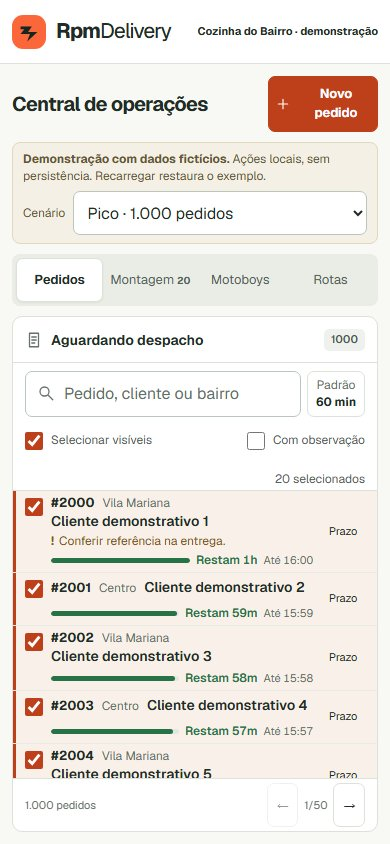
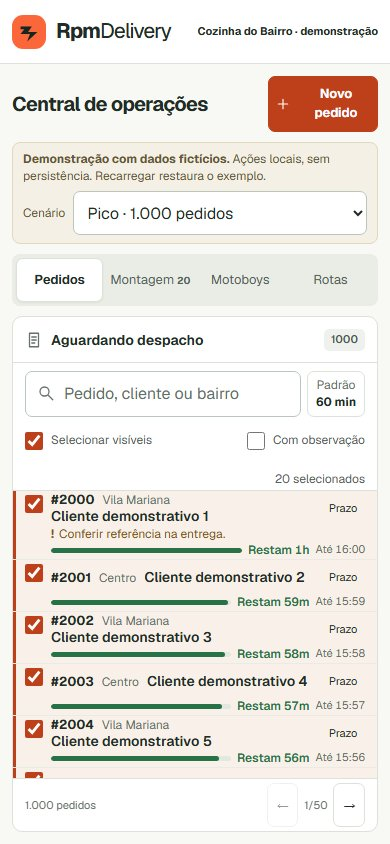
fix: preserve mobile order density with deadline bars

Changed region(s): [[0.0615, 0.5853, 0.9231, 0.9242]]

diff --git a/features/operations/operations-deadlines.css b/features/operations/operations-deadlines.css
@@ -61,6 +61,11 @@
 .ops-deadline-fill { display: block; height: 100%; background: var(--deadline-color); border-radius: inherit; }
 @media (max-width: 600px) {
   .ops-deadline-other-day strong { flex-basis: 100%; order: -1; }
+  .ops-order { padding-block: 1px; row-gap: 0; }
+  .ops-order .ops-order-identity { line-height: 1.25; }
+  .operations .ops-order-edit-promise { grid-row: 1; margin-block: -5px; align-self: start; }
+  .ops-order .ops-order-note,
+  .ops-order-deadline { grid-column: 2 / -1; }
 }
 .operations .ops-deadline-button {
   min-height: 44px;

diff --git a/docs/reviews/delivery-deadlines-visual-critic.md b/docs/reviews/delivery-deadlines-visual-critic.md
@@ -1,0 +1,76 @@
+# Revisão independente — prazos e retirada
+
+Relatório original do Critic nativo, salvo pelo Builder sem mudar suas conclusões. Revisou o candidato `27e9b0876bd0811cdb086f5b02dc88cd76badd4c`, antes do refinamento mobile posterior. Todas as imagens citadas nesta seção pertencem a [esse commit imutável](https://github.com/henriqueskm/rpmdelivery/tree/27e9b0876bd0811cdb086f5b02dc88cd76badd4c/docs/screenshots/deadlines-pickup), não às capturas atualizadas depois.
+
+Descoberta confirmada pelo registro do runtime: coordenador `01a13098-cc1d-7571-8a43-1599a5267012`, filho `01a13099-8d50-73c0-8ea0-ae7dd3080453`, `agent_role=rpmdelivery_visual_critic`, `agent_path=/root/visual_review`, sandbox read-only e approval never. O agente não escreveu arquivos nem corrigiu achados. O Builder fez QA interativo em outra sessão; o Critic declarou fallback para imagens.
+
+Revisão independente concluída com **um achado P2 de densidade mobile**. Não observei P0/P1 nas capturas analisadas. A inspeção interativa ficou indisponível; esta conclusão não aprova a PR.
+
+**Identidade e contexto.** Agente `/root/visual_review`, invocado com o tipo nativo `rpmdelivery_visual_critic`. Recebi as instruções desse papel e li `.codex/agents/rpmdelivery-visual-critic.toml`, que declara o mesmo nome, `sandbox_mode = "read-only"` e `approval_policy = "never"`. Posso comprovar o papel recebido e a configuração lida; não inspecionei o mecanismo interno de descoberta do runtime.
+
+Conferi diretamente `git rev-parse HEAD`: `27e9b0876bd0811cdb086f5b02dc88cd76badd4c`. `git status --short` não retornou alterações. Branch informada pelo coordenador: `codex/delivery-deadlines-pickup`; PR ainda não aberta. Escopo: prazos prometidos e liberação conjunta de retirada no protótipo operacional.
+
+Li `AGENTS.md`, `CONVENTIONS.md`, `docs/development-workflow.md` e as skills emil-design-eng, mobile-native, break-ui/CATALOG e rpmdelivery-qa. Apliquei somente suas etapas de leitura e inspeção. Não há frame Figma aprovado disponível; considerei a identidade atual com o raio.
+
+**Evidência e cobertura.** Tentei abrir `http://127.0.0.1:3007/preview/operacao?scenario=demo` no navegador integrado. A ferramenta retornou **“Browser is not available: iab”**. Não tentei Chrome, navegador externo ou contorno.
+
+Analisei por `view_image` as capturas existentes em `docs/screenshots/deadlines-pickup`, sem criar arquivos:
+
+- Antes/depois de pedidos e montagem em 320×844, 375×844 e 390×844.
+- Antes/depois desktop em 1280×800 e 1440×900.
+- Motoboy aguardando em desktop e nas três larguras mobile; pronto para retirada nas três larguras mobile; ON_ROUTE em 390px.
+- Textos longos em pedidos em 1280/320/375/390px e motoboy em 320/390px.
+- Conferência, vazio, um pedido, novo pedido e prazo padrão em 390px; editor de prazo em 320/390px.
+
+A identificação das capturas como antes de `origin/main`/PR #10 e depois do HEAD candidato, DPR 1 e relógio congelado em 12/10/2026 às 15:00, foi **fornecida pelo coordenador**. Conferi o HEAD do checkout; não há metadado visual nas imagens que prove isoladamente seu commit de origem.
+
+`measurements.json` foi lido como **medição DOM fornecida**, não como medição independente. O cenário `demo` foi lido nas fixtures, mas não teve resultado renderizado inspecionado: as capturas de alto volume mostram `busy`.
+
+**[P2] A coluna da ação “Prazo” reduz a área de leitura e a densidade em mobile.**
+
+Em `after-375-orders.jpg` e `after-390-orders.jpg`, a lista mostra quatro pedidos completos antes do rodapé, enquanto as respectivas imagens `before-*` mostram cinco, com o mesmo cenário de 1.000 pedidos, 20 selecionados e posição inicial. A medição fornecida confirma **5 → 4 pedidos completos em uma área de 287,42px**, perda de 20% na quantidade simultaneamente visível. O acréscimo do prazo é útil, mas o custo aumenta a rolagem durante seleção e conferência repetitivas.
+
+O código confirma que a ação reserva uma coluna de 44px atravessando as três linhas do pedido. Observações e barra ficam restritas à coluna central mesmo abaixo da identidade. Em `after-320-worst-orders.jpg`, isso é particularmente visível na observação de alergia e instruções de entrega: há espaço ao lado da nota ocupado pela coluna da ação.
+
+- **Evidência:** `before-375-orders.jpg` / `after-375-orders.jpg`, `before-390-orders.jpg` / `after-390-orders.jpg`, `after-320-worst-orders.jpg`; `measurements.json`, entradas `orders`.
+- **Reprodução para o Builder:** abrir `?scenario=busy`, usar 375×844 ou 390×844, selecionar os 20 pedidos visíveis e manter a lista no início. Comparar com a referência anterior nas mesmas condições. Para observar o estreitamento da nota, usar `?scenario=worst` em 320×844.
+- **Responsável identificado:** `features/operations/operations-deadlines.css:16` define as colunas; linha 30 faz a ação atravessar três linhas; linhas 33 e 34 restringem observação e prazo à coluna 2.
+- **Recomendação:** manter “Prazo” com alvo de pelo menos 44px, mas reposicionar sua reserva junto da identidade e permitir que as linhas seguintes aproveitem a largura disponível. Recomparar as contagens sem reduzir fontes, truncar alertas ou ocultar observações.
+- **Benefício esperado:** menos quebras de linha e maior área útil para informações essenciais. A recuperação exata de cinco linhas exige validação renderizada após o ajuste; não está comprovada antecipadamente.
+
+| Antes | Depois recomendado | Benefício |
+| --- | --- | --- |
+| Ação “Prazo” reserva 44px ao longo da identidade, observação e barra | Reserva da ação concentrada junto da identidade; linhas seguintes aproveitam a largura disponível | Reduz quebras e rolagem, preservando alvo de toque e conteúdo integral |
+
+**Aspectos que resistiram à inspeção das imagens.**
+
+Os prazos aparecem abaixo das informações dos pedidos. A barra, o texto de tempo e o limite ficam associados visualmente; o estado não depende somente da cor. As capturas mostram verde para tempo folgado, laranja com “Próximo · 8m” e vermelho com “Vencido”. O vencimento do dia anterior traz `Até 11/10, 18:36`; no mobile, o atraso ocupa uma linha anterior, sem esconder o limite.
+
+Nas capturas de textos longos, nome, bairro, referência extensa, complemento e instruções de alergia permanecem legíveis com quebra de linha. A visão do motoboy em 390px mostra a nota extensa integralmente e o prazo correspondente. Não observei ações sobrepostas nem conteúdo escapando horizontalmente nas regiões capturadas.
+
+Em desktop, a comparação e a medição fornecida mantêm seis pedidos completos em 1280×800 e oito em 1440×900. A montagem mantém ações de atribuição acessíveis; a conferência em 390px amplia a área de leitura para a composição de 20 paradas, embora apenas as primeiras estejam visíveis na captura.
+
+As imagens do motoboy distinguem “Aguardando liberação” de “Pronto para retirada”, mantendo “Em preparação” nos dois estados. O botão de início aparece desabilitado no primeiro e ativo no segundo. Em ON_ROUTE, aparece a mensagem de composição e sequência bloqueadas. O aviso de simulação, ausência de autenticação real, tracking e notificações é visível.
+
+Vazio e um pedido têm apresentação coerente. Os editores separam horário original e prazo prometido; o prazo padrão explica que vale somente para novos pedidos.
+
+**Comportamentos confirmados apenas por leitura do código.**
+
+O reducer em memória mantém PREPARING/reserva após atribuição, libera o conjunto completo sem iniciar a rota e exige o motoboy atribuído para o início. Alteração do conjunto invalida a liberação; reordenação do mesmo conjunto a preserva. Edição de composição exige PREPARING. Retorno confirmado recoloca o motoboy no final da fila.
+
+`deadlines.ts` calcula o limite a partir do horário original mais o prazo, usa verde acima de 10 minutos, laranja entre mais de 5 e 10 minutos e vermelho em até 5 minutos ou vencido. O relógio é compartilhado por `useOperationsClock`. Não há reordenação automática por urgência na leitura realizada.
+
+Esses pontos **não equivalem a fluxos executados** nem comprovam autorização ou segurança de backend futuro.
+
+**Limitações e cobertura pendente.**
+
+Não executei interação, teclado, Escape, retorno de foco, seleção/filtros, paginação, validação de formulário ou rolagem até a vigésima parada. Não capturei console, network ou erros de runtime. Não houve teste de atualização temporal ou da transição visual em exatamente 10/5 minutos. Loading, erros e recuperação não foram observados renderizados.
+
+Os alvos “Prazo” e prazo padrão têm mínimo de 44px declarado no CSS; isso não constitui medição independente de todos os controles. A inspeção de contraste foi visual, sem cálculo instrumental ou declaração de conformidade WCAG.
+
+Não foram fornecidos resultados de verify, unitários ou E2E associados ao HEAD; permanecem não verificados. Não executei testes, build, instalação ou qualquer comando de escrita. Não acessei dados reais, Supabase ou produção.
+
+Sem aparelho físico, teclado virtual, safe areas, gestos, zoom nativo e comportamento com barras do navegador permanecem não testados. Não alterei viewport de navegador disponível, portanto não houve override a restaurar.
+
+Devolvo ao Builder como prioridade o **P2 de distribuição da coluna “Prazo” no mobile** e a validação interativa pendente do fluxo de liberação/início, edição e retorno. Nenhuma correção, aprovação, publicação ou merge foi realizado.
+

diff --git a/docs/delivery-deadlines-qa.md b/docs/delivery-deadlines-qa.md
@@ -10,11 +10,11 @@ Capturas em [screenshots/deadlines-pickup](screenshots/deadlines-pickup), medida
 | --- | --- | --- | --- |
 | 1280×800 | 6 → 6 | 3 → 4 | 6 → 6 |
 | 1440×900 | 8 → 8 | 7 → 7 | 8 → 8 |
-| 320×844 | 3 → 3 | 2 → 2 | 4 → 4 |
-| 375×844 | 5 → 4 | 3 → 3 | 5 → 6 |
-| 390×844 | 5 → 4 | 3 → 3 | 6 → 6 |
+| 320×844 | 3 → 4 | 2 → 2 | 4 → 4 |
+| 375×844 | 5 → 5 | 3 → 3 | 5 → 6 |
+| 390×844 | 5 → 5 | 3 → 3 | 6 → 6 |
 
-A barra inferior e o horário na mesma linha atendem à escolha do usuário. No pico mobile 375/390, a linha adicional de prazo custa um pedido completo visível; nomes, bairros, observações integrais e alvos de 44px foram preservados. Os painéis mantêm altura e rolagem próprias. A conferência ampliada mantém o seletor e a atribuição disponíveis.
+A barra inferior e o horário na mesma linha atendem à escolha do usuário. Após o P2 do Critic, a ação Prazo foi concentrada junto da identificação no mobile; observações e barra passaram a ocupar a largura restante inteira. Espaçamentos verticais foram compactados, sem reduzir fontes ou alvos. Recuperamos cinco pedidos completos em 375/390 e ampliamos de três para quatro em 320; nomes, bairros, observações integrais e alvos de 44px foram preservados. Os painéis mantêm altura e rolagem próprias. A conferência ampliada mantém o seletor e a atribuição disponíveis.
 
 A visão do motoboy com vinte paradas mantém estado, prazo urgente e ação de início fora da lista rolável: área de lista de 352px em 320/375 e 369px em 390, ação inteira visível, sem overflow horizontal. Datas de outro dia permanecem explícitas; no mobile o texto de atraso pode ocupar a linha anterior para conservar barra e horário juntos.
 
@@ -33,7 +33,7 @@ Console integrado sem erros/warnings; CDP sem exceções, falhas de carregamento
 
 Instalação limpa com npm ci; verify (lint, TypeScript, build), 18 unitários, instalação SQL e SQL/PGlite locais aprovados. Audit de produção: zero vulnerabilidades. Audit completo: cinco alertas altos dev preexistentes, documentados no contrato; sem mudança de dependências ou gate.
 
-Foi observada uma falha intermitente no teste preexistente de debounce do onboarding durante uma execução local (`Rua` disparada antes da segunda entrada). O arquivo de onboarding e retries globais não foram alterados. A repetição completa passou com 62 testes; o resultado final e o CI constam na PR. Falhas de densidade durante desenvolvimento foram corrigidas no CSS sem reduzir os critérios do teste.
+Foram observadas falhas intermitentes nos testes preexistentes de debounce do onboarding em execuções locais concorrentes às capturas (consulta anterior disparada antes da segunda entrada/edição). O arquivo de onboarding e retries globais não foram alterados. Execuções completas subsequentes passaram com 62 testes; a validação final após refinamento usa --workers=1 para separar a suíte das capturas, sem alterar o workflow ou retries. o resultado final e o CI constam na PR. Falhas de densidade durante desenvolvimento foram corrigidas no CSS sem reduzir os critérios do teste.
 
 ## Limitações
 
